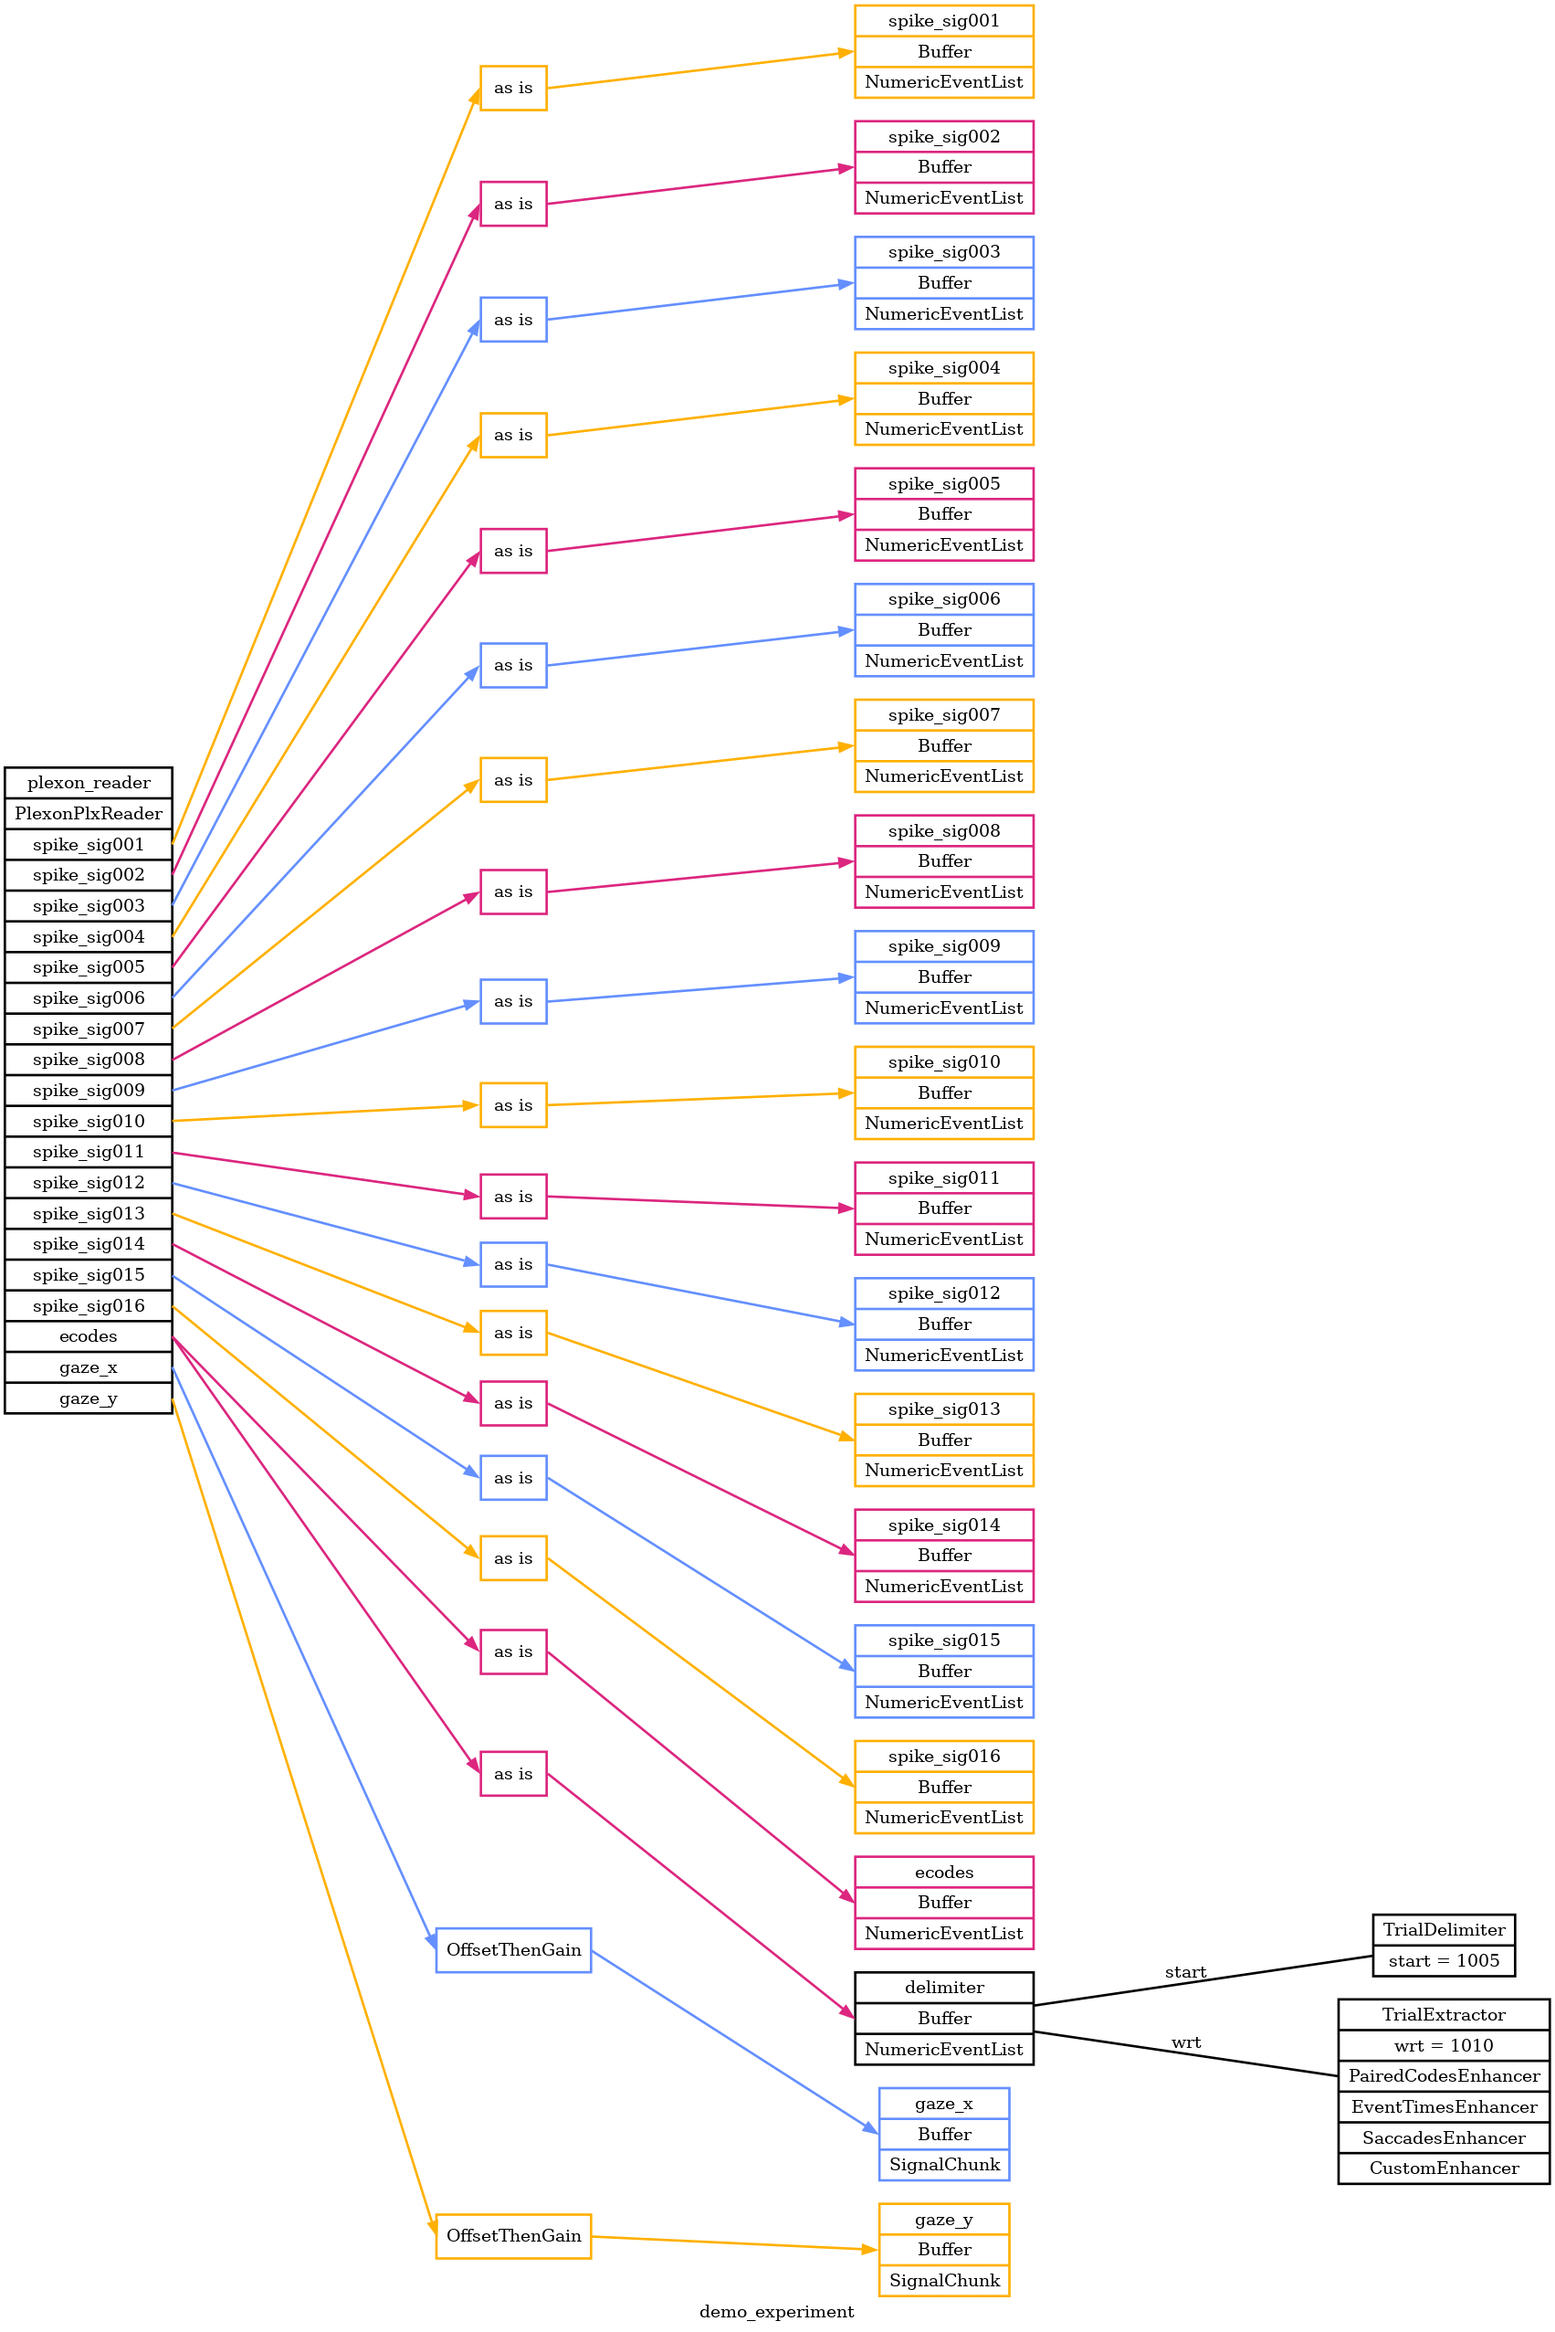
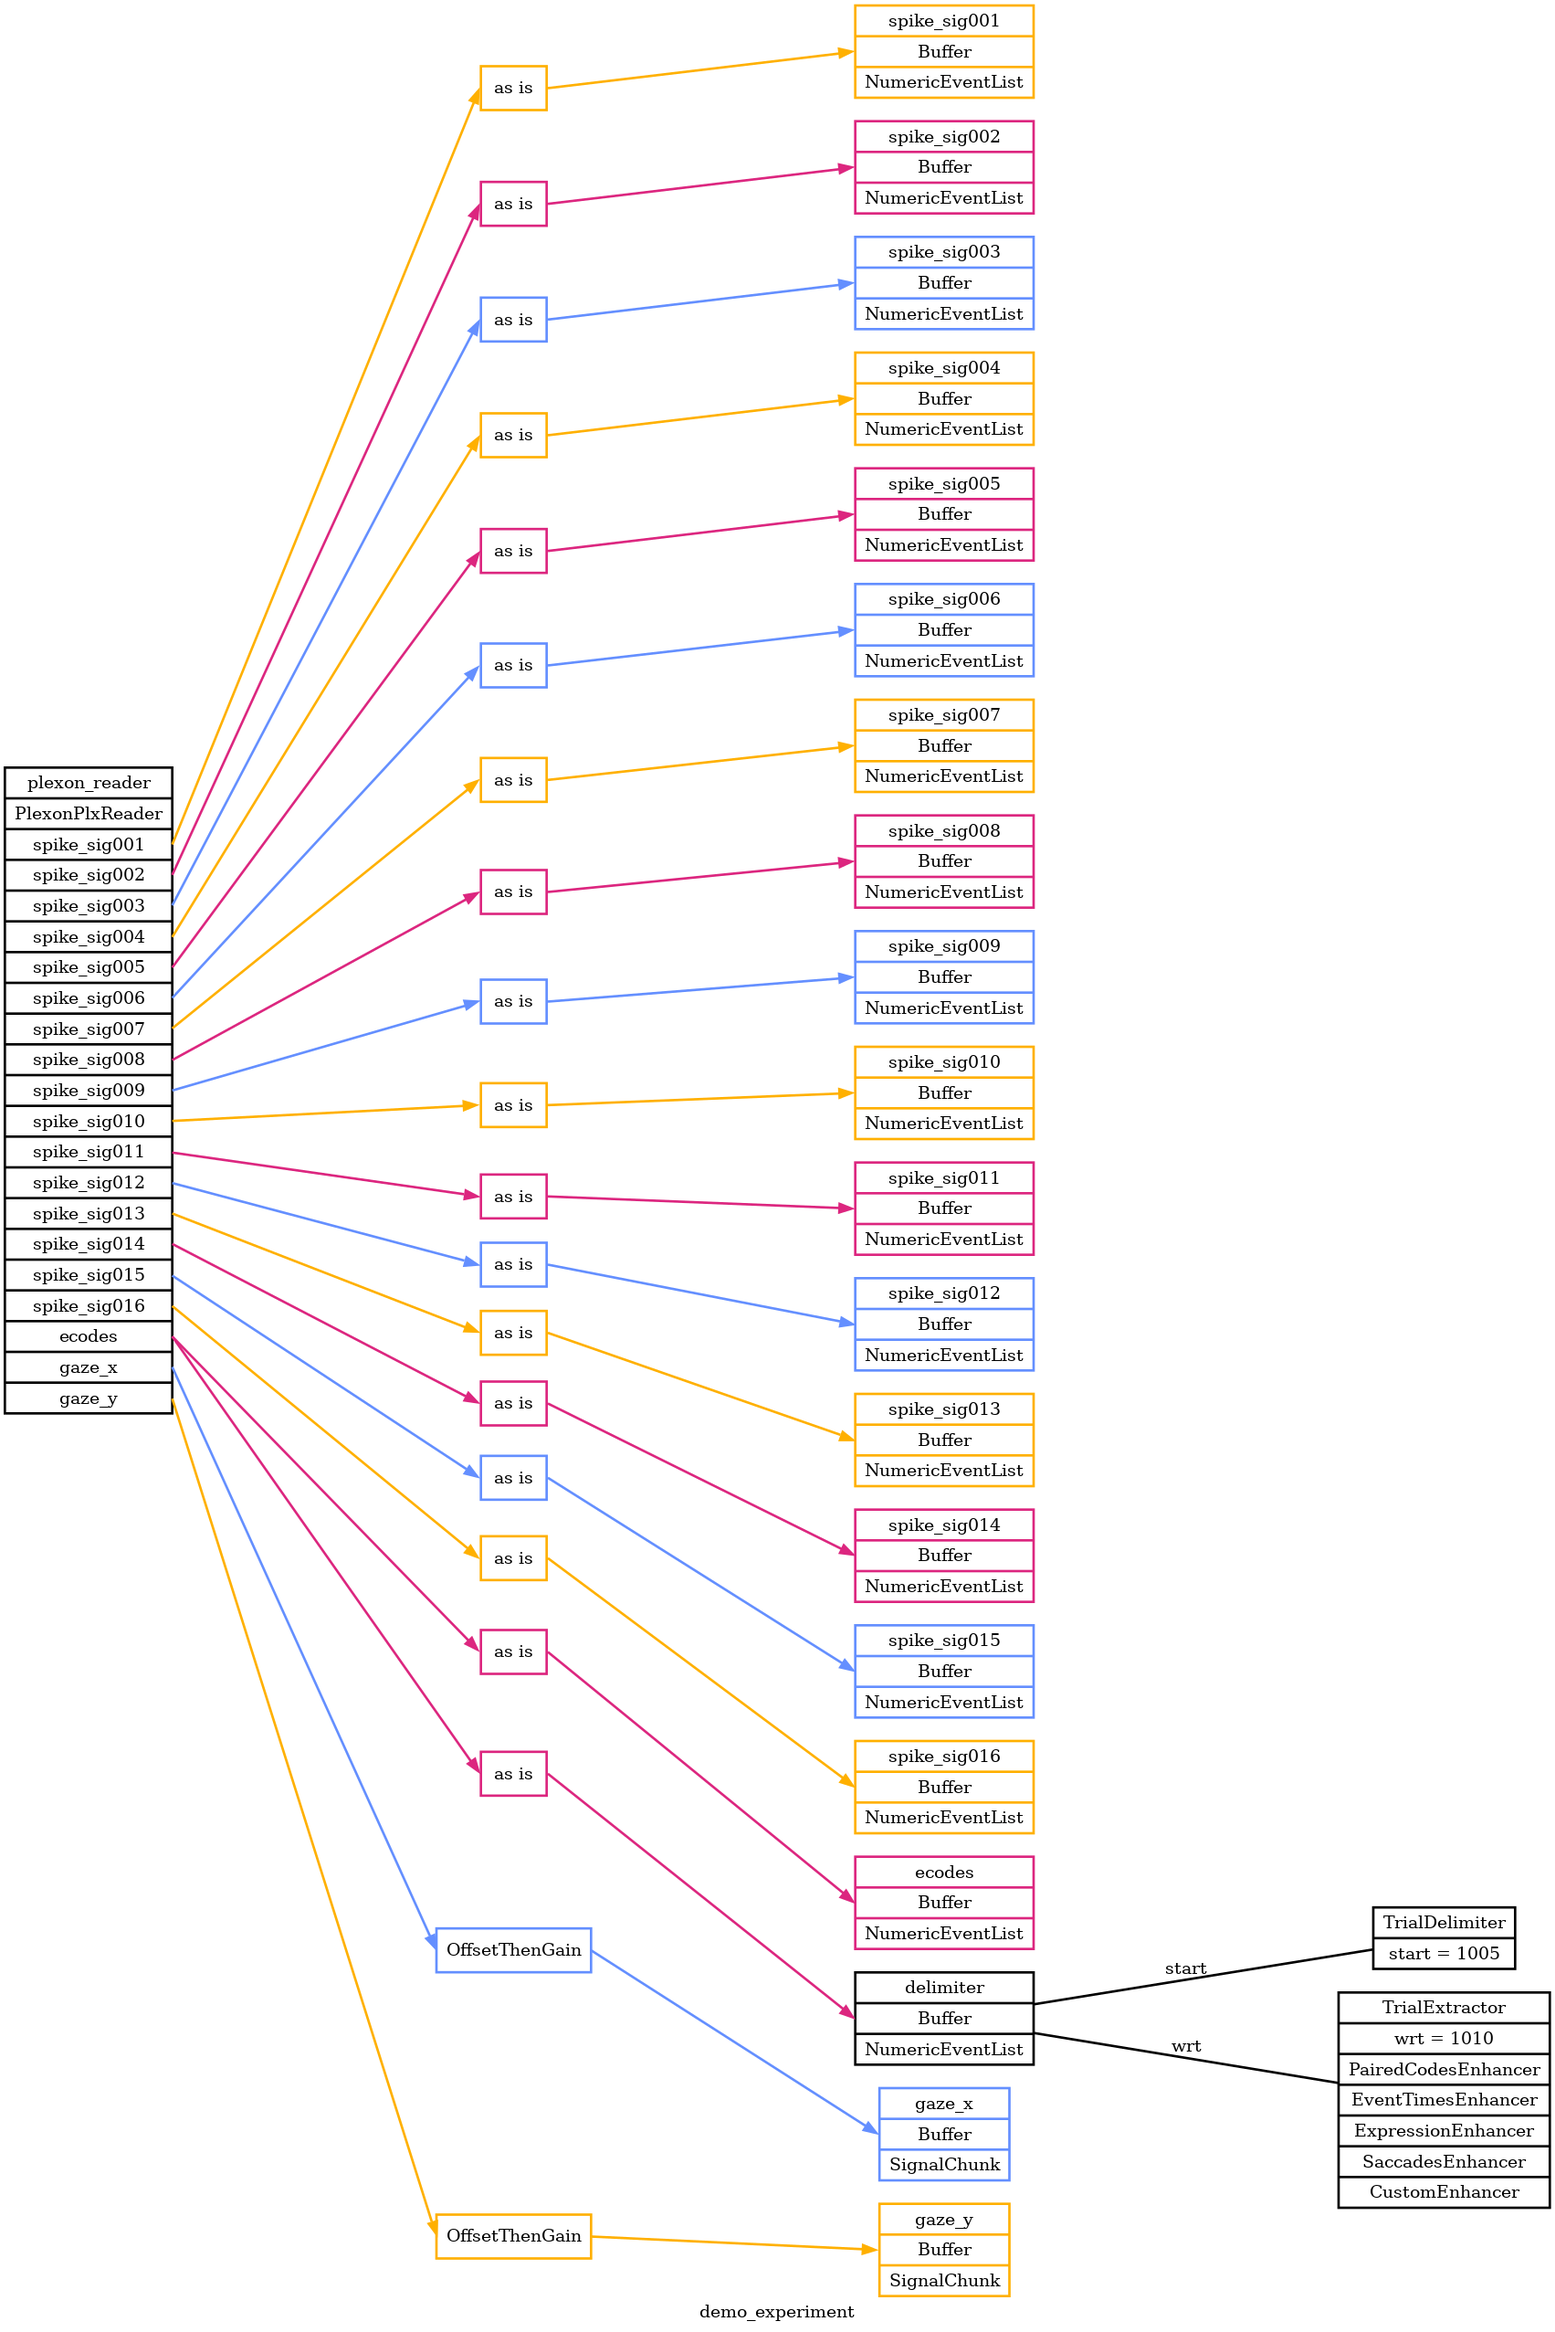
Chence some Pyramid demo enhancer checks to use trial expressions.

Changed region(s): [[0.8403, 0.8045, 1.0, 0.9593], [0.7469, 0.8355, 0.778, 0.8974]]

diff --git a/pyramid/tests/pyramid/trials/test_standard_enhancers.py b/pyramid/tests/pyramid/trials/test_standard_enhancers.py
@@ -182,3 +182,31 @@ def test_expression_enhancer(tmp_path):
     assert error_trial.enhancements == {
         "greater": "No way!"
     }
+
+
+def test_expression_enhancer_bool_conversion(tmp_path):
+    enhancer = ExpressionEnhancer(
+        expression="foo > 0",
+        value_name="nonzero"
+    )
+
+    trial = Trial(
+        start_time=0,
+        end_time=20,
+        wrt_time=0,
+        enhancements={
+            "foo": np.array(42),
+        }
+    )
+
+    # The expression "foo > 0" expands to "np.array(42) > 0".
+    # This produces a numpy.bool_ rather than a standard Python bool.
+    # Check that the enhancer converts the result to standard (ie json-serializable) types only.
+    enhancer.enhance(trial, 0, {}, {})
+    assert trial.enhancements == {
+        "foo": np.array(42),
+        "nonzero": True
+    }
+
+    nonzero = trial.get_enhancement("nonzero")
+    assert type(nonzero) == bool

diff --git a/pyramid/docs/plexon-demo/custom_enhancers.py b/pyramid/docs/plexon-demo/custom_enhancers.py
@@ -36,8 +36,6 @@ class CustomEnhancer(TrialEnhancer):
         # via PairedCodesEnhancer and EventTimesEnhancer.
 
         task_id = trial.get_enhancement("task_id")
-        if task_id is None:
-            return
 
         # Use trial.add_enhancement() to set new values from custom computations.
         # You can set a category like "time", "id", or "value" (the default).
@@ -204,8 +202,6 @@ class SaccadesEnhancer(TrialEnhancer):
 
         # Use trial.get_one() to get the time of the first occurence of the named "time" event.
         fp_off_time = trial.get_one(self.fp_off_name)
-        if fp_off_time is None:
-            return
 
         # Use trial.signals for gaze signal chunks.
         x_signal = trial.signals[self.horiz_buffer_name]

diff --git a/pyramid/src/pyramid/trials/standard_enhancers.py b/pyramid/src/pyramid/trials/standard_enhancers.py
@@ -1,4 +1,5 @@
 from typing import Any
+from numpy import bool_
 import csv
 
 from pyramid.trials.trials import Trial, TrialEnhancer, TrialExpression
@@ -214,4 +215,9 @@ class ExpressionEnhancer(TrialEnhancer):
         subject_info: dict[str: Any]
     ) -> None:
         value = self.trial_expression.evaluate(trial)
+
+        # Many numpy types are json-serializable like standard Python float, int, etc. -- But not numpy.bool_ !
+        if isinstance(value, bool_):
+            value = bool(value)
+
         trial.add_enhancement(self.value_name, value, self.value_category)
